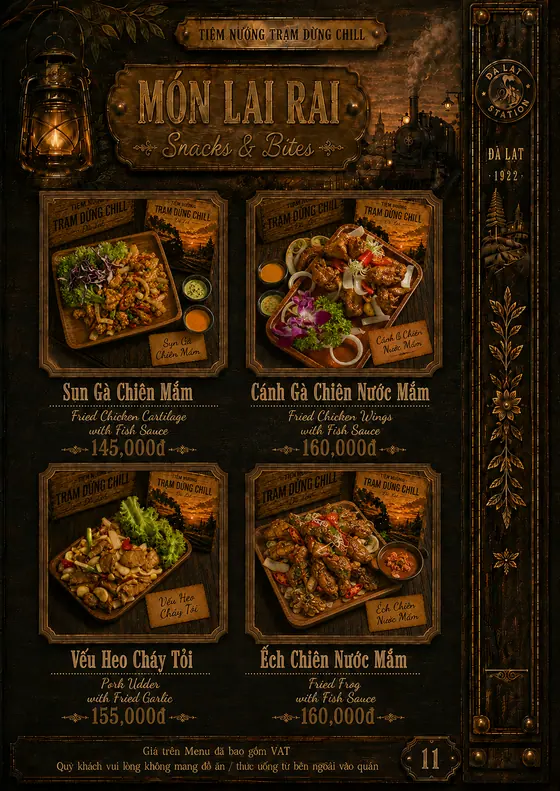
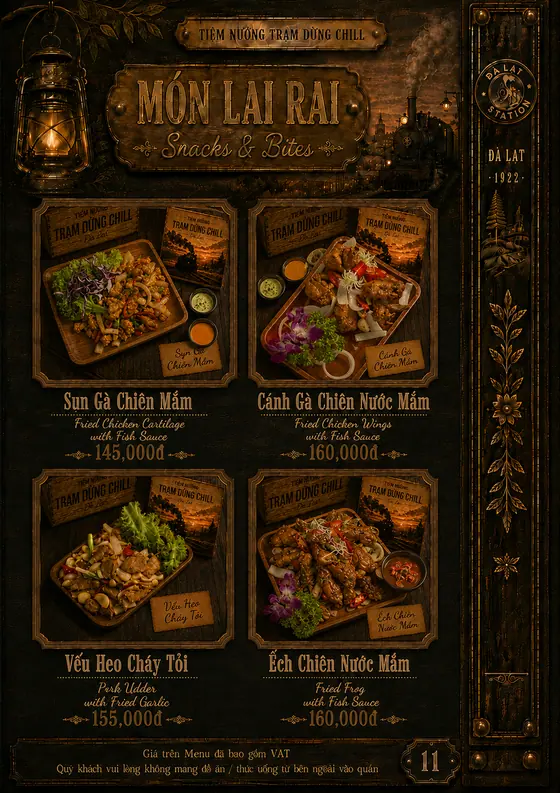
fix(menu): thay anh trang 12 (ban chup moi cua quan) — gia giu nguyen
Sep Tuan gui lai anh trang 12 lan hai trong ngay. Lan nay chi doi anh mon va
tong mau, bo cuc van la luoi 4 mon va gia y het ban sang: Sun Ga 145K, Canh
Ga 160K, Veu Heo 155K, Ech 160K — doi chieu tung mon voi menu-data.js, khop
het nen KHONG dong vao data.

Kem theo: blog/an-vat-da-lat-buoi-toi.html duoc sinh lai cho co dong "Cap nhat
14/08/2026". Bot SEO ghi ngay sua vao nguon hom qua nhung HTML chua build lai
tu luc do; khong gop vao day thi lan build sau van de ra dung thay doi nay.

Khong bump CACHE_NAME: URL anh mang van tay ?v=<md5>.
Kiem tra: check-facts SACH, seo-geo-verify 32/32 PASS.

diff --git a/blog/an-vat-da-lat-buoi-toi.html b/blog/an-vat-da-lat-buoi-toi.html
@@ -186,7 +186,7 @@
     <style>.reading-progress { position:fixed; top:0; left:0; height:3px; background:linear-gradient(90deg, var(--gold), var(--sunset)); width:0%; z-index:9999; transition:width 0.1s linear; }</style>
     <nav class="navbar scrolled" id="navbar"><div class="nav-container"><a href="../index.html" class="nav-logo"><span class="logo-icon">&#9733;</span><div class="logo-text-wrapper"><span class="logo-sub">Tiệm Nướng</span><span class="logo-main">Trạm Dừng Chill</span></div></a><ul class="nav-menu" id="navMenu"><li><a href="../index.html" class="nav-link">Trang chủ</a></li><li><a href="../menu.html" class="nav-link">Thực đơn</a></li><li><a href="../blog.html" class="nav-link active">Blog</a></li><li><a href="../index.html#booking" class="nav-link nav-cta">Đặt bàn</a></li></ul><div class="nav-right"><a href="tel:0989765070" class="nav-phone">0989.765.070</a></div><button class="nav-toggle" id="navToggle" aria-label="Menu"><span></span><span></span><span></span></button></div></nav>
     <main id="main-content">
-    <section class="blog-post-hero" style="padding-top:100px;"><div class="container"><nav class="breadcrumb" aria-label="Breadcrumb"><a href="../index.html">Trang chủ</a> › <a href="../blog.html">Blog</a> › <span>Ăn Vặt Đà Lạt Buổi Tối — 15 Món Chợ Đêm Nên Thử Và Cách...</span></nav><div class="blog-post-meta" style="margin:16px 0;"><span class="blog-category">Ẩm thực Đà Lạt</span> <time datetime="2026-07-30">30/07/2026</time> <span class="reading-time">7 phút đọc</span> <span class="blog-byline">✍ Nguyễn Duy · Chủ tiệm nướng Trạm Dừng Chill</span></div><h1 style="font-family:var(--font-display);font-size:clamp(1.8rem,4vw,2.8rem);color:var(--night);margin-bottom:16px;">Ăn Vặt Đà Lạt Buổi Tối — 15 Món Chợ Đêm Nên Thử Và Cách Đi Cho Trọn Tối</h1><p style="font-size:1.1rem;color:var(--text-muted);max-width:720px;">Ăn vặt Đà Lạt buổi tối nên ăn gì? 15 món chợ đêm đáng thử từ bánh tráng nướng, bánh căn tới sữa đậu nành nóng, kèm thứ tự nên ăn và mẹo đi không bị no ngang.</p></div></section>
+    <section class="blog-post-hero" style="padding-top:100px;"><div class="container"><nav class="breadcrumb" aria-label="Breadcrumb"><a href="../index.html">Trang chủ</a> › <a href="../blog.html">Blog</a> › <span>Ăn Vặt Đà Lạt Buổi Tối — 15 Món Chợ Đêm Nên Thử Và Cách...</span></nav><div class="blog-post-meta" style="margin:16px 0;"><span class="blog-category">Ẩm thực Đà Lạt</span> <time datetime="2026-07-30">30/07/2026</time> · <span class="blog-updated">Cập nhật 14/08/2026</span> <span class="reading-time">7 phút đọc</span> <span class="blog-byline">✍ Nguyễn Duy · Chủ tiệm nướng Trạm Dừng Chill</span></div><h1 style="font-family:var(--font-display);font-size:clamp(1.8rem,4vw,2.8rem);color:var(--night);margin-bottom:16px;">Ăn Vặt Đà Lạt Buổi Tối — 15 Món Chợ Đêm Nên Thử Và Cách Đi Cho Trọn Tối</h1><p style="font-size:1.1rem;color:var(--text-muted);max-width:720px;">Ăn vặt Đà Lạt buổi tối nên ăn gì? 15 món chợ đêm đáng thử từ bánh tráng nướng, bánh căn tới sữa đậu nành nóng, kèm thứ tự nên ăn và mẹo đi không bị no ngang.</p></div></section>
     <div class="container" style="margin:24px auto 32px;"><img src="../assets/images/blog/view-nha-long-3-v4.webp" srcset="../assets/images/blog/view-nha-long-3-v4-400w.webp 400w, ../assets/images/blog/view-nha-long-3-v4-800w.webp 800w, ../assets/images/blog/view-nha-long-3-v4.webp 1200w" sizes="(max-width:480px) 400px, (max-width:768px) 800px, 1200px" alt="Ăn vặt Đà Lạt buổi tối - nướng xiên que và đồ ăn đêm" style="width:100%;max-height:500px;object-fit:cover;border-radius:20px;" loading="eager"></div>
     <article class="blog-post-body container" style="max-width:800px;margin:0 auto;padding:0 24px 60px;"><p><strong>Ăn vặt Đà Lạt buổi tối</strong> gói gọn trong một câu: cứ chạy về khu chợ đêm ở trung tâm, chập tối các quầy dọn ra kín hai bên đường và bán tới khuya. Mười lăm món đáng thử nhất gồm bánh tráng nướng, bánh căn, bánh mì xíu mại, nem nướng, xiên que nướng, bắp nướng mỡ hành, ốc, bánh ướt lòng gà, bánh bèo chén, bánh tráng trộn, sữa đậu nành nóng, chè nóng, kem bơ, sữa chua phô mai và dâu tây dầm. Dưới đây là ghi chép của người sống tại Đà Lạt: ăn gì trước, để gì cuối, đi sao cho không no ngang.</p>
 

diff --git a/menu.html b/menu.html
@@ -1289,10 +1289,10 @@
                     <figcaption class="flip-page-caption">Trang 11/26 — Món Lai Rai</figcaption>
                 </figure>
                 <figure class="flip-page" data-page="12" data-group="laurai" data-group-label="Món Lai Rai" data-group-i18n="flip.group.snacks">
-                    <img src="assets/menu-pages/menu-quan-nuong-da-lat-12-mon-lai-rai-sun-ga-chien-mam-vu-heo-chay-toi-1000.webp?v=6a4a688d"
-                         srcset="assets/menu-pages/menu-quan-nuong-da-lat-12-mon-lai-rai-sun-ga-chien-mam-vu-heo-chay-toi-560.webp?v=7601e733 560w, assets/menu-pages/menu-quan-nuong-da-lat-12-mon-lai-rai-sun-ga-chien-mam-vu-heo-chay-toi-1000.webp?v=6a4a688d 1000w"
+                    <img src="assets/menu-pages/menu-quan-nuong-da-lat-12-mon-lai-rai-sun-ga-chien-mam-vu-heo-chay-toi-1000.webp?v=d77bffd8"
+                         srcset="assets/menu-pages/menu-quan-nuong-da-lat-12-mon-lai-rai-sun-ga-chien-mam-vu-heo-chay-toi-560.webp?v=2b79f0c0 560w, assets/menu-pages/menu-quan-nuong-da-lat-12-mon-lai-rai-sun-ga-chien-mam-vu-heo-chay-toi-1000.webp?v=d77bffd8 1000w"
                          sizes="(min-width: 900px) 46vw, 92vw"
-                         width="1055" height="1491"
+                         width="1054" height="1492"
                          alt="Món lai rai: sụn gà chiên mắm, cánh gà chiên nước mắm, vếu heo cháy tỏi, ếch chiên nước mắm"
                          loading="lazy" decoding="async">
                     <figcaption class="flip-page-caption">Trang 12/26 — Món Lai Rai</figcaption>
